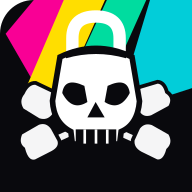
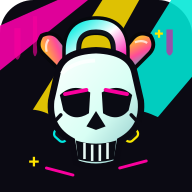
Add files via upload

diff --git a/styles.css b/styles.css
@@ -72,3 +72,43 @@ body{background:#101013;color:#f6f6f7}
 .movement-entry>summary small{color:#11d8d3;font-weight:700;white-space:nowrap}
 .movement-entry .tech-guide{margin:8px 0}
 @media(max-width:380px){.top{padding-left:10px;padding-right:10px}.brandmark{width:48px;height:48px}.top h1{font-size:19px}.offline{font-size:9px}.tab{font-size:11px}}
+
+/* V11 — neon punk identity, original kettlebell skull / crossed clubs */
+:root{--ink:#0a0910;--panel:#181720;--magenta:#ff009e;--aqua:#00e5dc;--yellow:#ffe600}
+body{background:radial-gradient(ellipse 90% 340px at 50% -80px,#3b1638 0%,#0d0c14 75%);color:#f7f6fb}
+.top{position:relative;isolation:isolate;overflow:hidden;background:#100d18;padding-top:calc(18px + env(safe-area-inset-top));padding-bottom:20px;border-bottom:5px solid var(--yellow)}
+.top:before{content:"";position:absolute;inset:0;z-index:-1;background:
+ radial-gradient(circle at 8% 12%,#ff009e 0 5px,transparent 6px),
+ radial-gradient(circle at 18% 83%,#ffe500 0 7px,transparent 8px),
+ radial-gradient(circle at 75% 8%,#00e5dc 0 4px,transparent 5px),
+ linear-gradient(111deg,#fd009a 0 12%,#fd009a00 29%),
+ linear-gradient(157deg,transparent 28%,#ffe500 29% 32%,transparent 34%),
+ linear-gradient(155deg,transparent 56%,#00e5dc 57% 64%,transparent 68%);opacity:.95}
+.top:after{content:"";position:absolute;bottom:0;left:0;width:100%;height:14px;background:repeating-linear-gradient(90deg,#ff009e 0 24px,#0a0910 24px 35px,#00e5dc 35px 59px,#ffe500 59px 67px);clip-path:polygon(0 0,100% 0,100% 38%,97% 100%,94% 42%,89% 76%,80% 25%,74% 100%,68% 30%,60% 86%,53% 32%,47% 95%,40% 38%,31% 86%,23% 24%,16% 100%,9% 40%,3% 90%,0 30%)}
+.brand{gap:12px;min-width:0}
+.brandmark{width:78px;height:78px;border:2px solid #ffe600;border-radius:18px;box-shadow:0 0 0 3px #0b0911,0 0 23px #ff009e88;transform:rotate(-5deg)}
+.brandmark img{width:100%;height:100%;object-fit:contain}
+.top h1{font-family:Impact,'Arial Black',system-ui,sans-serif;font-size:clamp(24px,6vw,39px);letter-spacing:.045em;font-style:italic;line-height:.95;color:#fff;text-shadow:3px 3px #0a0910,-2px -2px #0a0910,5px 6px #ff009e;transform:skew(-4deg)}
+.top small{display:block;margin-top:8px;color:#fff;letter-spacing:.06em;text-transform:uppercase;font-size:10px}
+.offline{background:#090a10dd;border:1px solid #ffe500;color:#ffe500;font-weight:750}
+.tabs{background:#101019;border-bottom:1px solid #3d3a49}
+.tab.selected{color:#ffe600;background:#22192b;border-bottom:4px solid #ff009e}
+main{background:transparent}
+.hero{position:relative;overflow:hidden;background:linear-gradient(120deg,#27192e,#15131d 68%);border:1px solid #423349;border-top:5px solid #00e5dc;box-shadow:inset -8px 0 #ff009e11}
+.hero:after{content:"";position:absolute;right:-18px;top:-36px;width:130px;height:130px;border:14px solid #ff009e16;border-radius:50%;transform:rotate(20deg)}
+.hero h2{font-family:Impact,'Arial Black',system-ui,sans-serif;letter-spacing:.02em;font-size:clamp(25px,6vw,36px);font-weight:900}
+.card{background:linear-gradient(145deg,#1d1b27,#17161e);border:1px solid #393441}
+.card>h2,.card>h3{letter-spacing:.015em}
+.exercise{background:#13151c;border:1px solid #373845;border-left:3px solid #00e5dc}
+.exercise:nth-of-type(3n){border-left-color:#ff009e}
+.exercise:nth-of-type(3n + 1){border-left-color:#ffe600}
+.button{background:#ff009e;color:white;border:1px solid #ff50bc;box-shadow:0 3px 0 #870058}
+.button.secondary{background:#18262b;color:#bafff9;border:1px solid #00e5dc;box-shadow:none}
+.segmented .selected,.day.selected,.hub-tabs .selected{background:#ffe600;color:#0c0b13;border-color:#ffe600}
+.editable-rx label{background:#133c36;border:1px solid #1d7b6f}
+.clock-dock{background:#0a0911;border-top:3px solid #ffe600;box-shadow:0 -8px 26px #0009}
+#timer-display{color:#fff;text-shadow:0 0 13px #00e5dc77}
+.movement-entry>summary small{color:#00e5dc}
+.letter{border-left-color:#ffe600}
+@media(max-width:400px){.top{padding-left:12px;padding-right:12px}.brandmark{width:58px;height:58px}.top h1{font-size:clamp(20px,5.5vw,26px)}.offline{font-size:9px;padding:4px 6px}.top small{font-size:9px}}
+@media(prefers-reduced-motion:reduce){.brandmark,.top h1{transform:none}}

diff --git a/index.html b/index.html
@@ -1,3 +1,3 @@
 <!doctype html>
-<html lang="en"><head><meta charset="utf-8"><meta name="viewport" content="width=device-width,initial-scale=1,viewport-fit=cover"><meta name="theme-color" content="#101013"><meta name="description" content="Offline-first kettlebell and club training log"><link rel="manifest" href="manifest.webmanifest"><link rel="icon" href="icon-192.png"><link rel="apple-touch-icon" href="icon-192.png"><link rel="stylesheet" href="styles.css?v=10"><title>Strength Lab</title></head>
-<body><div id="app"><header class="top"><div class="brand"><div class="brandmark"><img src="icon-192.png" alt="Kettlebell skull and crossed clubs"></div><div><h1>Strength Lab</h1><small>Train for the long game</small></div></div><span class="offline" id="network">Offline ready</span></header><nav class="tabs" aria-label="Main navigation"><button class="tab" data-view="hub">Training Hub</button><button class="tab selected" data-view="train">Train</button><button class="tab" data-view="history">History</button><button class="tab" data-view="settings">Settings</button></nav><main id="view" aria-live="polite"></main></div><dialog id="dialog"><form method="dialog" id="dialog-content"></form></dialog><script src="app.js?v=10" defer></script></body></html>
+<html lang="en"><head><meta charset="utf-8"><meta name="viewport" content="width=device-width,initial-scale=1,viewport-fit=cover"><meta name="theme-color" content="#101013"><meta name="description" content="Offline-first kettlebell and club training log"><link rel="manifest" href="manifest.webmanifest"><link rel="icon" href="icon-192.png"><link rel="apple-touch-icon" href="icon-192.png"><link rel="stylesheet" href="styles.css?v=11"><title>Strength Lab</title></head>
+<body><div id="app"><header class="top"><div class="brand"><div class="brandmark"><img src="brand-mark.svg" alt="Kettlebell skull and crossed heavy clubs"></div><div><h1>Strength Lab</h1><small>Train for the long game</small></div></div><span class="offline" id="network">Offline ready</span></header><nav class="tabs" aria-label="Main navigation"><button class="tab" data-view="hub">Training Hub</button><button class="tab selected" data-view="train">Train</button><button class="tab" data-view="history">History</button><button class="tab" data-view="settings">Settings</button></nav><main id="view" aria-live="polite"></main></div><dialog id="dialog"><form method="dialog" id="dialog-content"></form></dialog><script src="app.js?v=11" defer></script></body></html>

diff --git a/sw.js b/sw.js
@@ -1,1 +1,1 @@
-const CACHE='strength-lab-v10';const ASSETS=['./','./index.html','./styles.css','./app.js','./manifest.webmanifest','./icon-192.png','./icon-512.png'];self.addEventListener('install',e=>e.waitUntil(caches.open(CACHE).then(c=>c.addAll(ASSETS)).then(()=>self.skipWaiting())));self.addEventListener('activate',e=>e.waitUntil(caches.keys().then(keys=>Promise.all(keys.filter(k=>k!==CACHE).map(k=>caches.delete(k)))).then(()=>self.clients.claim())));self.addEventListener('fetch',e=>{if(e.request.method!=='GET'||new URL(e.request.url).origin!==self.location.origin)return;e.respondWith(fetch(e.request).then(r=>{if(r.ok){const copy=r.clone();e.waitUntil(caches.open(CACHE).then(c=>c.put(e.request,copy)))}return r}).catch(()=>caches.match(e.request).then(v=>v||caches.match('./index.html'))))});
+const CACHE='strength-lab-v11';const ASSETS=['./','./index.html','./styles.css','./app.js','./manifest.webmanifest','./icon-192.png','./icon-512.png','./brand-mark.svg'];self.addEventListener('install',e=>e.waitUntil(caches.open(CACHE).then(c=>c.addAll(ASSETS)).then(()=>self.skipWaiting())));self.addEventListener('activate',e=>e.waitUntil(caches.keys().then(keys=>Promise.all(keys.filter(k=>k!==CACHE).map(k=>caches.delete(k)))).then(()=>self.clients.claim())));self.addEventListener('fetch',e=>{if(e.request.method!=='GET'||new URL(e.request.url).origin!==self.location.origin)return;e.respondWith(fetch(e.request).then(r=>{if(r.ok){const copy=r.clone();e.waitUntil(caches.open(CACHE).then(c=>c.put(e.request,copy)))}return r}).catch(()=>caches.match(e.request).then(v=>v||caches.match('./index.html'))))});

diff --git a/README.md b/README.md
@@ -1,1 +1,1 @@
-Strength Lab V10 — Training Hub, alphabetical movement library (including warm-up and cool-down), and original neon kettlebell skull/crossed-clubs identity. Upload all files to the root of the GitHub Pages repository. Keep browser storage to preserve training logs.
+Strength Lab V11 — visual redesign with original neon kettlebell-skull/crossed-heavy-clubs vector logo, updated icons and paint-accented dark interface. Existing V10 training functions and local storage are preserved. Upload ALL files in this folder to the repository root. Open ?v=11 and hard-refresh.\n
